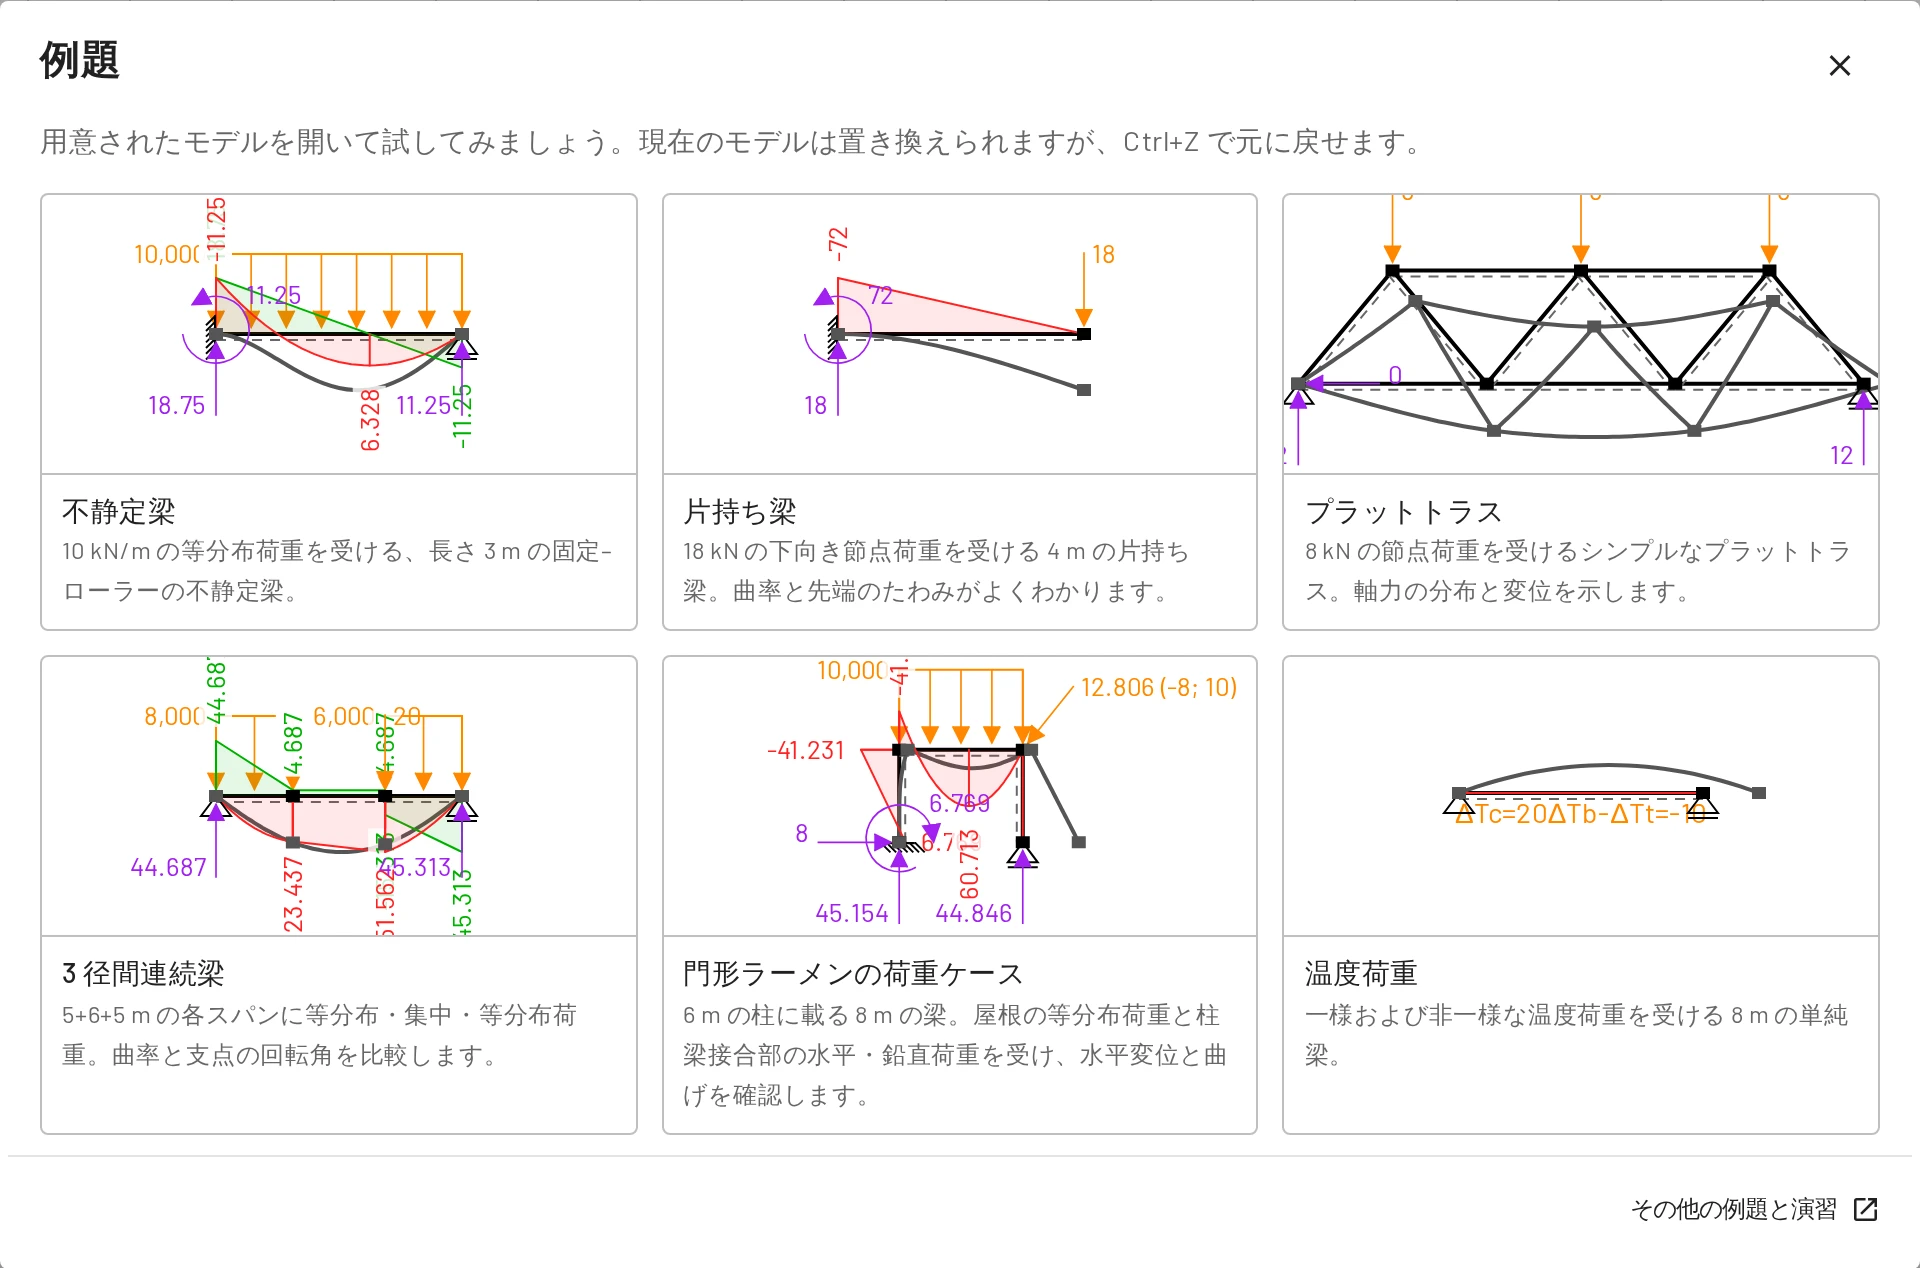
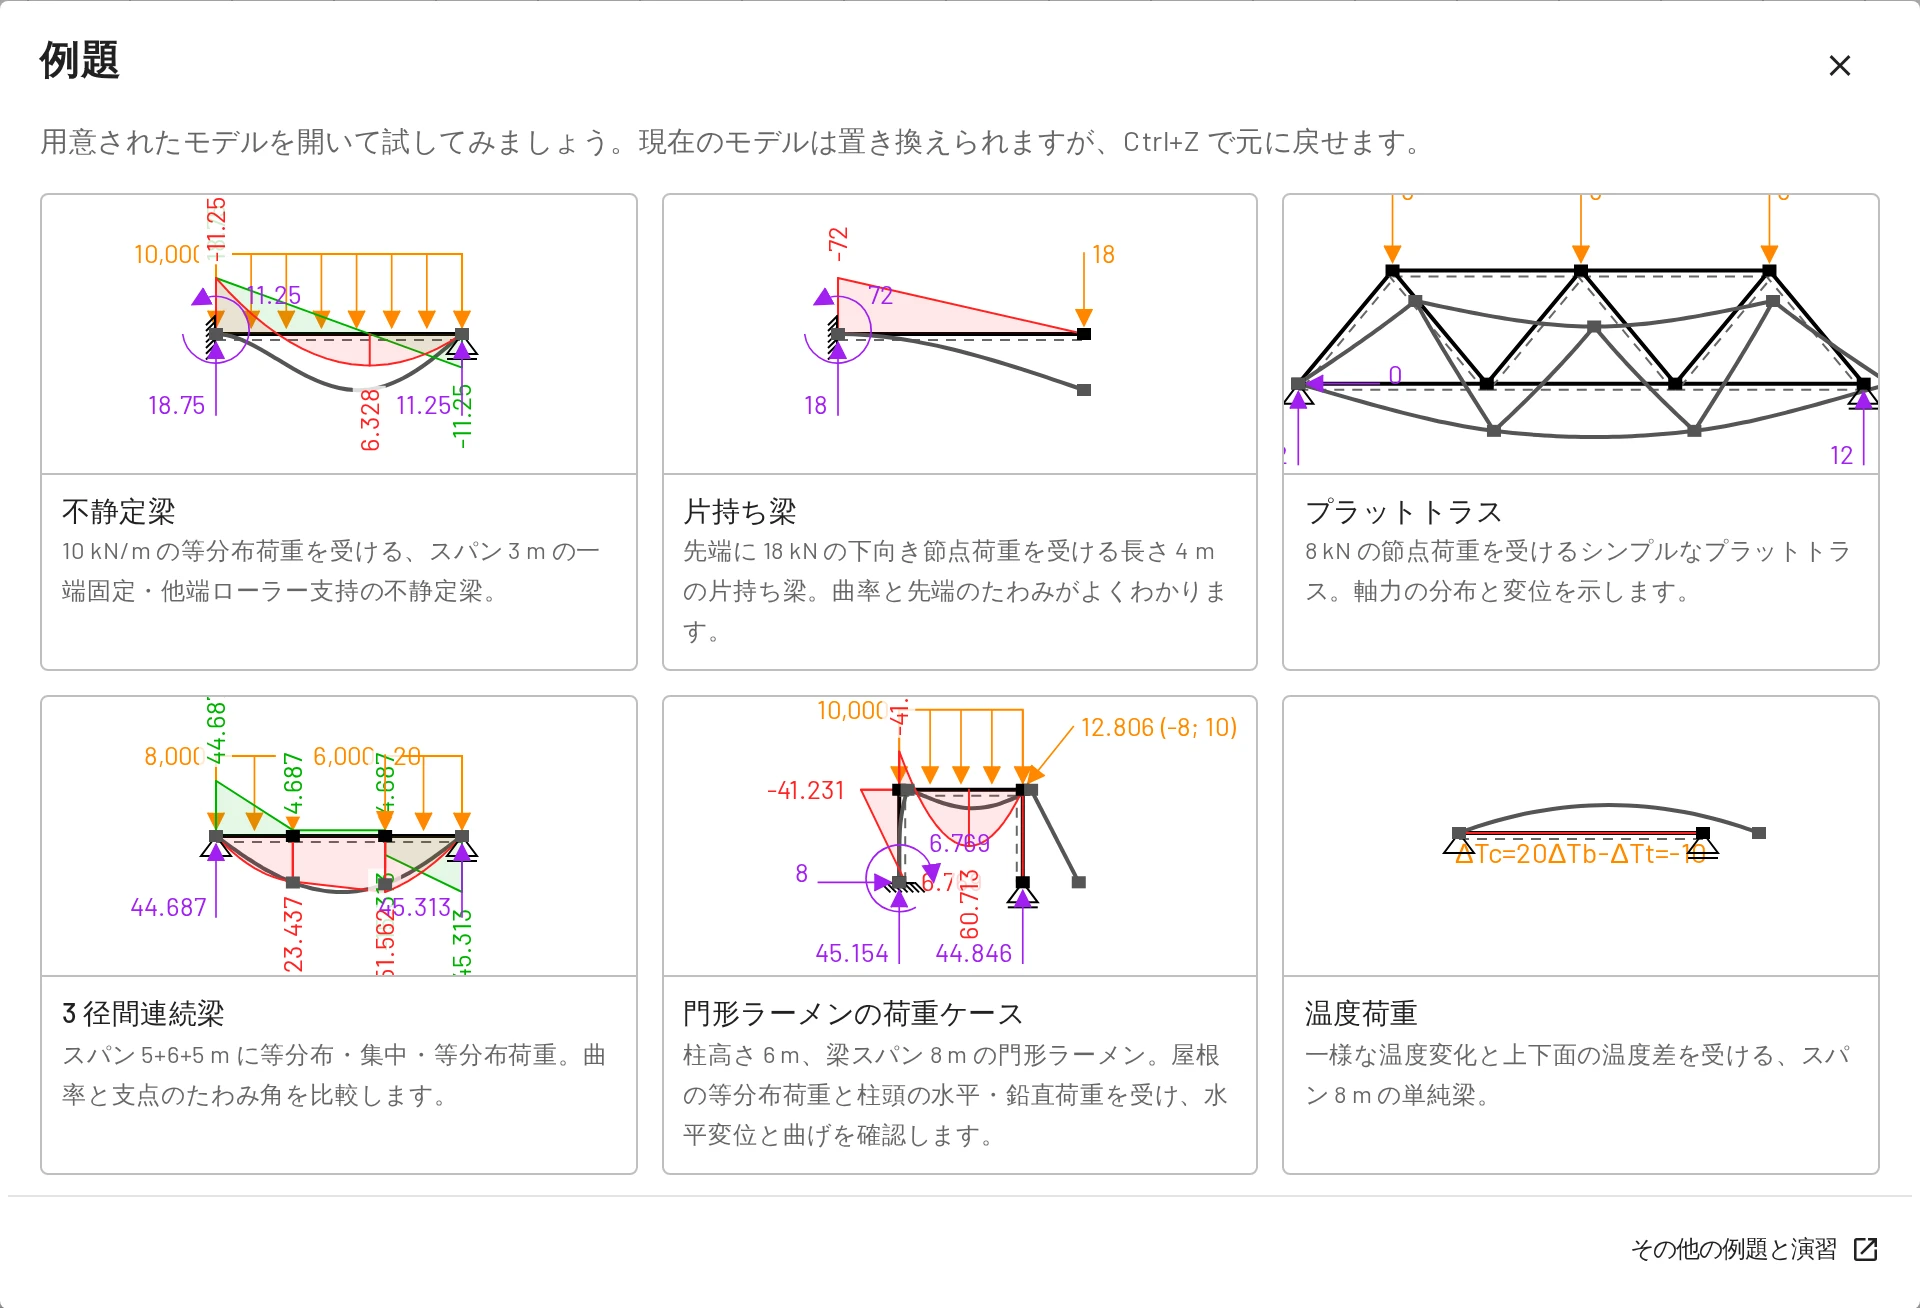
i18n: use Japanese structural terminology in the app and docs
The Japanese translation was checked against Japanese structural software and 構造力学 usage. The guided support was 「スライド固定」, which reads as fixed, so it is now ローラー（回転拘束）. The nodal angle no longer shows the bare abbreviation LCS, truss verticals are 垂直材, beam end rotations たわみ角, and the solver messages read naturally for one node or several and describe mechanisms by the lines of action of the reactions. The docs quote the renamed labels and show them in their screenshots.

diff --git a/docs/components/docsText.ts b/docs/components/docsText.ts
@@ -347,7 +347,7 @@ const strings: Record<DocsLanguage, DocsStrings> = {
     temperatureBlurb: '断面の高さ方向の温度差（上側が下側より高温）と、それによって生じる曲率。',
     promoTitle: 'あなたの骨組を',
     promoAccent: '3D へ。',
-    promoSubtitle: 'スラブ、シェル、鋼構造の検定をブラウザで',
+    promoSubtitle: 'スラブ、シェル、鋼構造の断面検定をブラウザで',
     promoCta: '無料で試す',
   },
   ko: {

diff --git a/docs/ja/reference/troubleshooting.md b/docs/ja/reference/troubleshooting.md
@@ -35,10 +35,10 @@ description: "結果が描かれない理由とその直し方：支点の不足
 
 | メッセージ | 意味 / 対処 |
 | --- | --- |
-| *支点の数は足りていますが、構造物を固定できていません。構造物はまだ…ことができます。* | 支点がすべて平行か、支点の作用線が 1 点で交わっています。破線が動きを示しています。いずれかの支点の向きを変えてください。1 つの部分だけが該当する場合は、同じメッセージが*独立した部分*を示します。 |
-| *支点は構造物を固定していますが、まだ不安定構造（機構）です。部材が節点 … のヒンジまわりに回転できます。* | ヒンジによって部材どうしが回転できてしまいます。両方の柱の頂部にヒンジがあるラーメンや、斜材のないピン接合の四角形がその例です。ヒンジを 1 つ外すか、部材または支点を追加してください。 |
-| *構造物が不安定です：節点 … がほとんど抵抗なく動きます。* | ほぼ不安定構造であるか、剛性が 0 に近い状態です。支点、ヒンジ、`E`、`A`、`Iy` の値を確認してください。 |
-| *構造物が不安定構造（機構）です：剛性マトリクスが特異です。* | 上のチェックでは見つからなかった何かが、自由に動けます。各部分が少なくとも 3 つの拘束で固定されているか、またヒンジによって部材が自由に回転できる状態になっていないかを確認してください。 |
+| *支点の数は足りていますが、構造物を固定できていません。構造物はまだ…ことができます。* | 支点反力の作用線がすべて平行か、1 点で交わっています。破線が動きを示しています。いずれかの支点の向きを変えてください。1 つの部分だけが該当する場合は、同じメッセージが*独立した部分*を示します。 |
+| *支点は構造物を固定していますが、不安定構造（機構）のままです。節点 … のヒンジまわりで部材が回転できます。* | ヒンジによって部材どうしが回転できてしまいます。両方の柱の頂部にヒンジがあるラーメンや、斜材のないピン接合の四角形がその例です。ヒンジを 1 つ外すか、部材または支点を追加してください。 |
+| *構造物が不安定です：節点 … に対する抵抗がほとんどありません。* | ほぼ不安定構造であるか、剛性が 0 に近い状態です。支点、ヒンジ、`E`、`A`、`Iy` の値を確認してください。 |
+| *不安定構造（機構）です：剛性マトリクスが特異になっています。* | 上のチェックでは見つからなかった何かが、自由に動けます。各部分が少なくとも 3 つの拘束で固定されているか、ヒンジによって自由に回転できる部材がないかを確認してください。 |
 | *要素 … が存在しない節点 / 材料 / 断面 … を参照しています。* | 参照先のオブジェクトが削除されています。通常は手で編集した JSON ファイルで起こります。*要素*の表で割り当て直してください。 |
 | *要素 … はちょうど 2 つの節点を参照する必要があります。* | インポートしたファイル内の壊れた要素です。削除して作り直してください。 |
 | *節点荷重 / 強制変位 #n が存在しない節点 … を参照しています。* | 荷重を削除するか、節点を指定してください。 |
@@ -62,10 +62,10 @@ description: "結果が描かれない理由とその直し方：支点の不足
 | --- | --- |
 | 荷重が上向きに作用する | グローバル **z は下向き**なので、正の `Fz`/`fz` は下向きです。負の値は上向きになります。[符号規約](/ja/elements/conventions)をご覧ください。y 上向きの座標軸では逆になります。 |
 | たわみが 1000 倍大きい、または小さい | 単位の取り違えです。単位が MPa なのに `E` を Pa で入力した、単位が m⁴ なのに `Iy` を cm⁴ で入力した、など。ビューア右下の単位チップを確認してください。 |
-| たわみが教科書の公式より少し大きい | Timoshenko 梁のせん断変形によるものです。Euler–Bernoulli の値に近づけるには、断面のせん断補正係数を大きくするか、細長い部材を使ってください。[手計算による結果の確認](/ja/guide/verification)をご覧ください。 |
+| たわみが教科書の公式より少し大きい | ティモシェンコ梁のせん断変形によるものです。オイラー・ベルヌーイ梁の値に近づけるには、断面のせん断補正係数を大きくするか、細長い部材を使ってください。[手計算による結果の確認](/ja/guide/verification)をご覧ください。 |
 | 符号が「間違って」見える | 符号は図が描かれている側ではなく、ラベルから読み取ってください。M は下側引張が正です。*要素結果*の材端力は、N・V・M の符号規約ではなく、要素のローカル座標軸に従います。 |
 | 同じ 2 本の柱でせん断力の符号が逆 | V の符号は各要素の向きに従います。比べるには、片方の節点を入れ替えてください。 |
-| `4 · 10¹` のような数値 | 指数表記の数値形式です。*設定 → 言語と地域 → 数値の表示形式*で*自動*を選んでください。 |
+| `4 · 10¹` のような数値 | 数値の表示形式が指数表記になっています。*設定 → 言語と地域 → 数値の表示形式*で*自動*を選んでください。 |
 | 図が大きすぎる、または小さすぎる | 見た目だけの問題です。*設定 → 表示設定*の**結果の表示倍率**を調整してください。 |
 | ローカル座標系の荷重が逆を向いている | 要素のローカル x 軸は*始端*節点から*終端*節点へ向かいます。節点を入れ替えるか、符号を反転してください。 |
 | 傾いた部材の荷重がずれている | **LCS** は初期状態でチェックが入っているので、`fz` は部材に垂直に作用します。鉛直荷重にするにはチェックを外してください。 |

diff --git a/docs/ja/essentials/nodes-supports.md b/docs/ja/essentials/nodes-supports.md
@@ -68,8 +68,8 @@ description: "節点の追加と編集、グリッドへのスナップ、要素
 | **ローラー** | Dz | 水平移動、回転 | R<sub>z</sub> |
 | **鉛直ローラー** | Dx | 鉛直移動、回転 | R<sub>x</sub> |
 | **固定** | Dx + Dz + Ry | なし | R<sub>x</sub>、R<sub>z</sub>、M |
-| **スライド固定** | Dz + Ry | 水平移動 | R<sub>z</sub>、M |
-| **鉛直スライド固定** | Dx + Ry | 鉛直移動 | R<sub>x</sub>、M |
+| **ローラー（回転拘束）** | Dz + Ry | 水平移動 | R<sub>z</sub>、M |
+| **鉛直ローラー（回転拘束）** | Dx + Ry | 鉛直移動 | R<sub>x</sub>、M |
 | **回転のみ拘束** | Ry | 水平・鉛直移動 | M |
 
 拘束されたすべての自由度について、反力が計算され、描画されます。
@@ -80,7 +80,7 @@ description: "節点の追加と編集、グリッドへのスナップ、要素
 
 ### 傾斜支点 {#inclined-skewed-supports}
 
-**節点の LCS 角度** α を度単位（−180…180）で設定します。節点のパネルの*支点条件*、節点の追加・編集ダイアログ、節点の表の α 欄で設定できます。節点の座標軸がその角度だけ回転し、支点の自由度は回転した方向に作用します。たとえば 30° の斜面上のローラーは、α = 30 として `Dz` を拘束します。記号もそれに応じて回転し、反力は回転した方向で表示されます。
+**節点座標系の角度** α を度単位（−180…180）で設定します。節点のパネルの*支点条件*、節点の追加・編集ダイアログ、節点の表の α 欄で設定できます。節点の座標軸がその角度だけ回転し、支点の自由度は回転した方向に作用します。たとえば 30° の斜面上のローラーは、α = 30 として `Dz` を拘束します。記号もそれに応じて回転し、反力は回転した方向で表示されます。
 
 ### 安定性 {#stability}
 
@@ -92,4 +92,4 @@ description: "節点の追加と編集、グリッドへのスナップ、要素
 
 ## 寸法線 {#dimension-lines}
 
-キャンバスを右クリック → **寸法線を追加**で 2 点間に寸法線を描けます。要素を右クリック → **要素の寸法線**で、その要素に直接寸法を付けることもできます。端点は、節点の近くまでドラッグすると節点にスナップします。寸法線を選択して**編集**で座標を入力したり、**寸法線を反転**でラベルを反対側に移したりできます。寸法線は表示のためだけのもので、プロジェクトと一緒に保存され、共有リンクにも含まれます。
+キャンバスを右クリック → **寸法線を追加**で 2 点間に寸法線を描けます。要素を右クリック → **要素に寸法線を追加**で、その要素に直接寸法線を付けることもできます。端点は、節点の近くまでドラッグすると節点にスナップします。寸法線を選択して**編集**で座標を入力したり、**寸法線を反転**でラベルを反対側に移したりできます。寸法線は表示のためだけのもので、プロジェクトと一緒に保存され、共有リンクにも含まれます。

diff --git a/docs/ja/guide/introduction.md b/docs/ja/guide/introduction.md
@@ -52,8 +52,8 @@ const members = [
 
 | 分野 | 機能 |
 | --- | --- |
-| **構造** | 節点と 2D Timoshenko 梁要素で組み立てる、平面（x–z）内の梁、連続梁、ラーメン、トラス。材端ヒンジを使えば、どの部材もトラス材にできます。 |
-| **支点** | ピン、ローラー、固定、スライド固定など、`Dx`、`Dz`、`Ry` の拘束のあらゆる組み合わせを記号から選べます。節点の角度による傾斜支点。支点沈下。 |
+| **構造** | 節点と 2D ティモシェンコ梁要素で組み立てる、平面（x–z）内の梁、連続梁、ラーメン、トラス。材端ヒンジを使えば、どの部材もトラス材にできます。 |
+| **支点** | ピン、ローラー、固定、ローラー（回転拘束）など、`Dx`、`Dz`、`Ry` の拘束のあらゆる組み合わせを記号から選べます。節点の角度による傾斜支点。支点沈下。 |
 | **荷重** | 節点の力とモーメント、強制変位、等分布荷重と台形分布荷重、部材上の集中荷重とモーメント、一様または勾配のある温度荷重。 |
 | **断面** | 材料ライブラリと断面ライブラリ（欧州と米国）に加え、任意の形状について $A$、$I_y$、$I_z$、$I_{yz}$、主軸、断面二次半径を計算する多角形エディタ。 |
 | **結果** | 変形図、軸力 **N**、せん断力 **V**、曲げモーメント **M**、反力、節点変位、材端力、要素剛性マトリクス。 |
@@ -69,7 +69,7 @@ const members = [
 - **線形静的解析のみ。** 2 次（P–Δ）効果、座屈、動的解析、塑性は扱えません。
 - **荷重ケースは 1 つ。** 荷重の組み合わせや包絡線はありません。ケースごとに別々にモデル化し、それぞれを個別のファイルや共有リンクとして保存してください。
 - **自重なし。** 必要な場合は分布荷重として加えてください。
-- **設計検定なし。** EduBeam が出すのは断面力と変位です。基準による検定はご自身で行ってください。
+- **断面検定なし。** EduBeam が出すのは断面力と変位です。設計規準に基づく断面検定はご自身で行ってください。
 
 欲しい機能がない場合は、[issue を作成](https://github.com/janvorisek/edubeam/issues)してください。
 

diff --git a/docs/ja/elements/beam.md b/docs/ja/elements/beam.md
@@ -1,16 +1,16 @@
 ---
-description: "EduBeam の 2D Timoshenko 梁要素：自由度、せん断変形を考慮したローカル剛性マトリクス、材端ヒンジ、要素荷重、座標変換。"
+description: "EduBeam の 2D ティモシェンコ梁要素：自由度、せん断変形を考慮したローカル剛性マトリクス、材端ヒンジ、要素荷重、座標変換。"
 ---
 
 # 梁要素
 
-<Edubeam /> の要素は、x–z 平面内の 2 節点 **Timoshenko 梁** だけです。古典的な Euler–Bernoulli 梁と比べてせん断変形が加わり、これはせいの高い部材や短い部材で重要になり、細長い部材ではほとんど消えます。符号規約は[符号規約](/ja/elements/conventions)のページにまとめています。
+<Edubeam /> の要素は、x–z 平面内の 2 節点 **ティモシェンコ梁**だけです。古典的なオイラー・ベルヌーイ梁と比べてせん断変形が加わり、これはせいの高い部材や短い部材で重要になり、細長い部材ではほとんど消えます。符号規約は[符号規約](/ja/elements/conventions)のページにまとめています。
 
 <TrussElement :moment="true" caption="2D Timoshenko 梁の概略図" />
 
 ## 自由度 {#degrees-of-freedom}
 
-2D Timoshenko 梁は、各節点に 3 つの自由度（DOF）を持ちます。
+2D ティモシェンコ梁は、各節点に 3 つの自由度（DOF）を持ちます。
 
 - **並進（Dx）：** X 軸方向の変位。
 - **並進（Dz）：** Z 軸方向の変位。
@@ -50,7 +50,7 @@ $$
 \varphi = \frac{12\,E I_y}{k\,G\,A\,L^2}
 $$
 
-$G$ はせん断弾性係数、$k$ は断面の**せん断補正係数**です（有効せん断断面積は $kA$）。$\varphi \to 0$（細長い梁、または非常に大きな $k$）では、マトリクスは Euler–Bernoulli 梁の剛性マトリクスに一致します。
+$G$ はせん断弾性係数、$k$ は断面の**せん断補正係数**です（有効せん断断面積は $kA$）。$\varphi \to 0$（細長い梁、または非常に大きな $k$）では、マトリクスはオイラー・ベルヌーイ梁の剛性マトリクスに一致します。
 
 ## 材端ヒンジ {#end-hinges}
 

diff --git a/docs/ja/essentials/results.md b/docs/ja/essentials/results.md
@@ -101,9 +101,9 @@ description: "軸力図、せん断力図、曲げモーメント図、反力、
 
 ## 精度 {#precision-and-accuracy}
 
-- 梁要素は、節点荷重、等分布荷重、台形分布荷重、集中荷重、温度荷重を受ける線形 Timoshenko モデルに対して厳密なので、結果は要素の数に**依存しません**。
+- 梁要素は、節点荷重、等分布荷重、台形分布荷重、集中荷重、温度荷重を受ける線形のティモシェンコ梁モデルに対して厳密なので、結果は要素の数に**依存しません**。
 - 計算は倍精度で行われます。`1.5 · 10⁻¹⁸` のようなごく小さな値は丸め誤差で、0 を意味します。
-- たわみには**せん断変形**が含まれます。細長い部材では Euler–Bernoulli の値に 1 % 未満が加わる程度ですが、せいの高い部材や短い部材では数 % になることがあります。せん断変形を抑えるには、断面のせん断補正係数を大きな値にしてください。
+- たわみには**せん断変形**が含まれます。細長い部材ではオイラー・ベルヌーイ梁の値に 1 % 未満が加わる程度ですが、せいの高い部材や短い部材では数 % になることがあります。せん断変形を抑えるには、断面のせん断補正係数を大きな値にしてください。
 
 ## レポートでの結果の利用 {#results-in-a-report}
 
